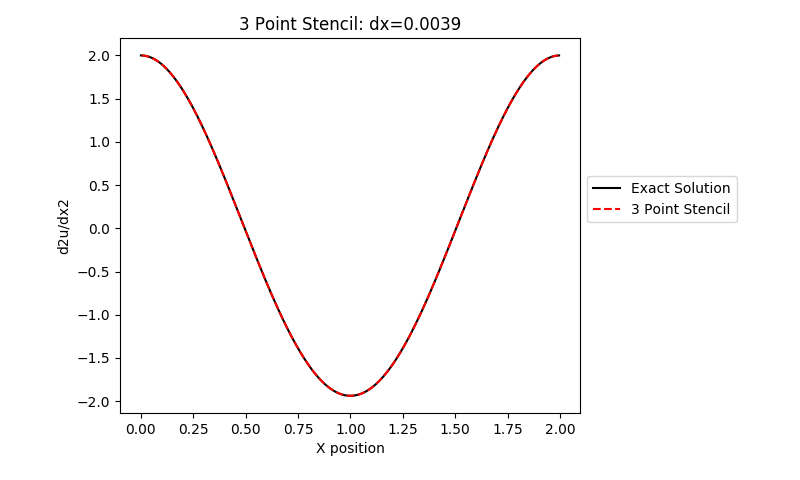
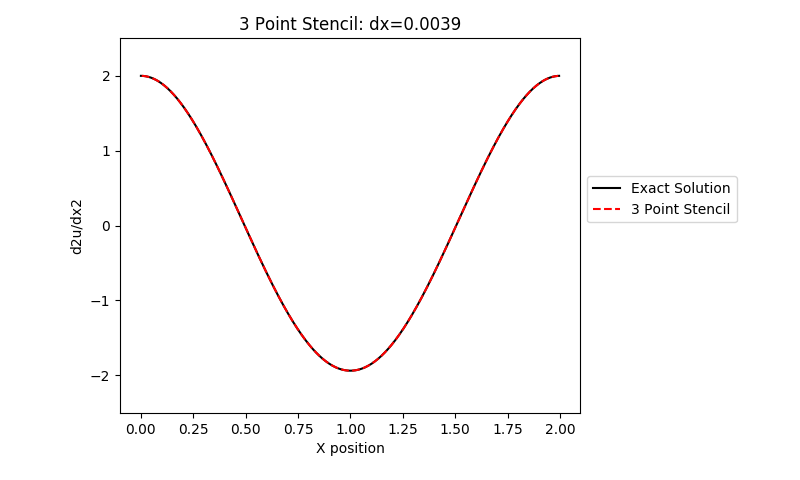
Improved numerical calculations

diff --git a/homework_3/question_2.py b/homework_3/question_2.py
@@ -43,11 +43,10 @@ def three_point_stencil(u_array: np.array, dx: float) -> np.array:
     :param dx: time step
     :return: Approximated second derivative array
     """
-    u_i_minus_1 = u_array
-    u_array = list(u_array)
-    u_i = np.array(u_array[1:] + [np.nan])
-    u_i_plus_1 = np.array(u_array[2:] + [np.nan] * 2)
-    return np.array(list((u_i_minus_1 - 2 * u_i + u_i_plus_1) / dx ** 2)[:-2])
+    u_i_minus_1 = u_array[:-2]
+    u_i = u_array[1:-1]
+    u_i_plus_1 = u_array[2:]
+    return (u_i_minus_1 - 2 * u_i + u_i_plus_1) / (dx ** 2)
 
 
 def convergence_fit(num_points: int, a: float, k: float) -> float:
@@ -97,8 +96,9 @@ def execute_study(dx: float, interval_end: float) -> Dict[str, np.array]:
 
     # Spectral approximation
     fft = np.fft.fft(u_exact)
-    kx = n_array * 2 * np.pi / (interval_end * number_of_points)
-    u_ddot_fft = -(kx ** 2) * np.fft.ifft(fft).real + 2
+    # kx = n_array * 2 * np.pi / (interval_end * number_of_points)
+    kx = np.fft.fftfreq(n=fft.size, d=dx)
+    u_ddot_fft = np.fft.ifft(-(kx ** 2) * fft).real
 
     return {'x': x, 'exact': u_ddot, 'stencil': three_point, 'fft': u_ddot_fft}
 
@@ -116,7 +116,7 @@ def p_norm(x_array: np.array,
     :param order: Order of the p-norm summation
     :return: Norm Error
     """
-    dt = (x_array[-1] - x_array[0]) / len(exact)
+    dt = (x_array[-1] - x_array[0]) / len(x_array)
     errors = []
     for n, (aprx, exct) in enumerate(zip(numerical, exact)):
         errors.append(abs(aprx ** n - exct ** n) ** order)
@@ -168,6 +168,7 @@ def generate_test_plot(x: np.array, u: np.array, fit: np.array, method: str):
     ax.set_title(title + f": dx={dt}")
     ax.set_ylabel('d2u/dx2')
     ax.set_xlabel('X position')
+    ax.set_ylim(-2.5, 2.5)
 
     plt.legend(
         [exact, fit],
@@ -237,7 +238,7 @@ if __name__ == '__main__':
         norms['stencil'].append({
             'num_points': num_points,
             'dt': dt,
-            'p_norm': p_norm(t['x'], t['stencil'], t['exact'])
+            'p_norm': p_norm(t['x'][1:-1], t['stencil'], t['exact'][1:-1])
         })
 
     # Plot convergence
